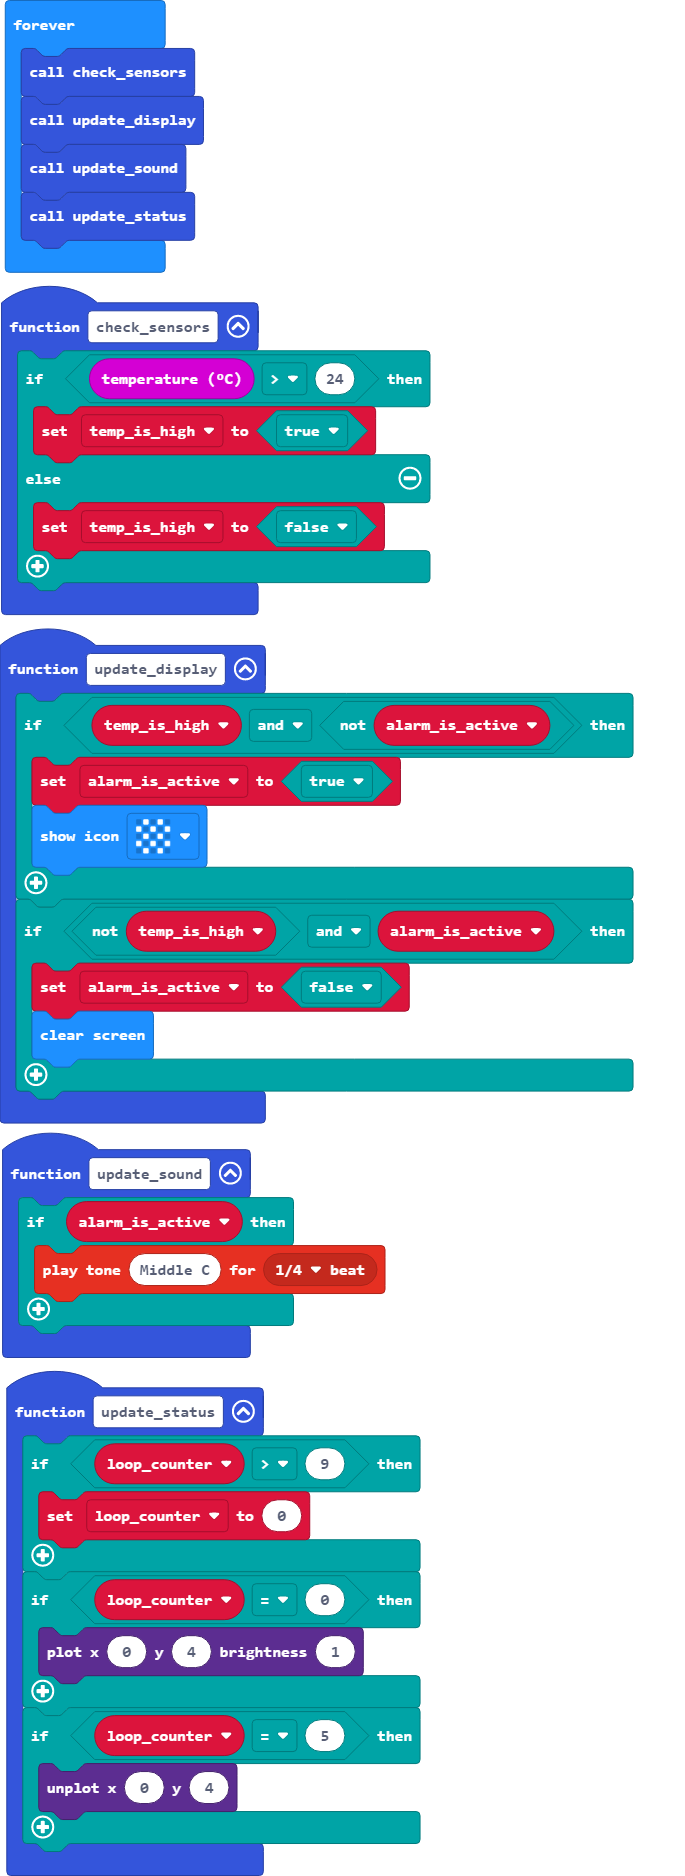
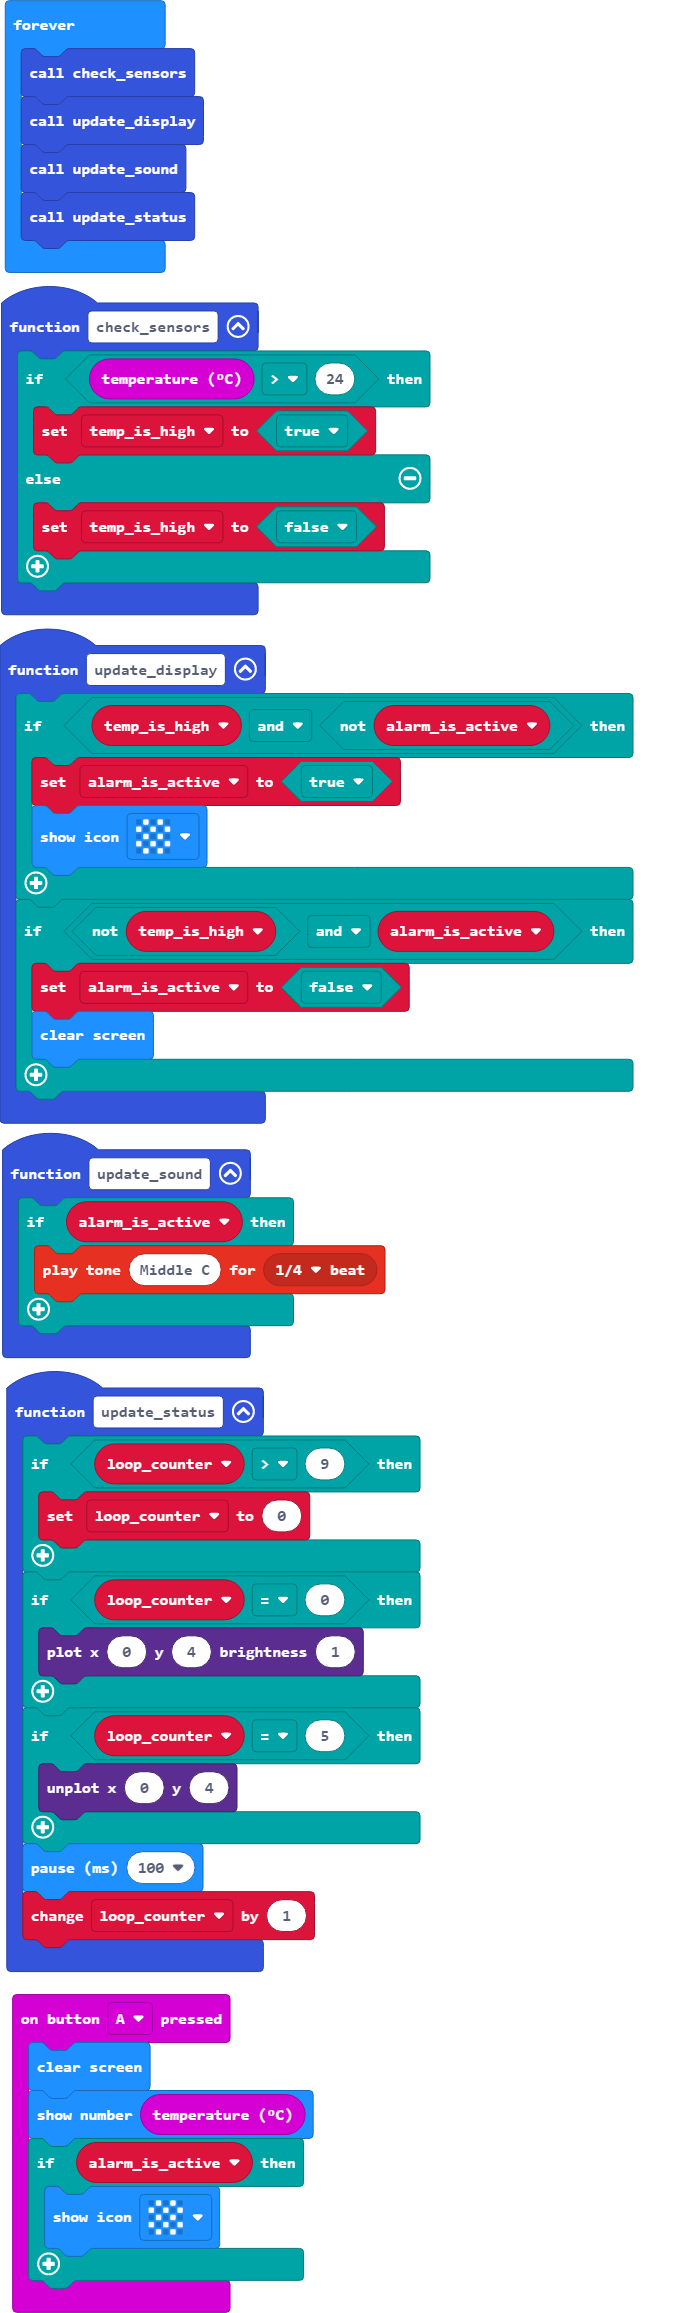
Update main.blocks, main.ts

diff --git a/main.ts b/main.ts
@@ -1,6 +1,13 @@
-let loop_counter = 0
 let alarm_is_active = false
+let loop_counter = 0
 let temp_is_high = false
+input.onButtonPressed(Button.A, function () {
+    basic.clearScreen()
+    basic.showNumber(input.temperature())
+    if (alarm_is_active) {
+        basic.showIcon(IconNames.Chessboard)
+    }
+})
 function update_status () {
     if (loop_counter > 9) {
         loop_counter = 0
@@ -11,6 +18,8 @@ function update_status () {
     if (loop_counter == 5) {
         led.unplot(0, 4)
     }
+    basic.pause(100)
+    loop_counter += 1
 }
 function update_sound () {
     if (alarm_is_active) {
